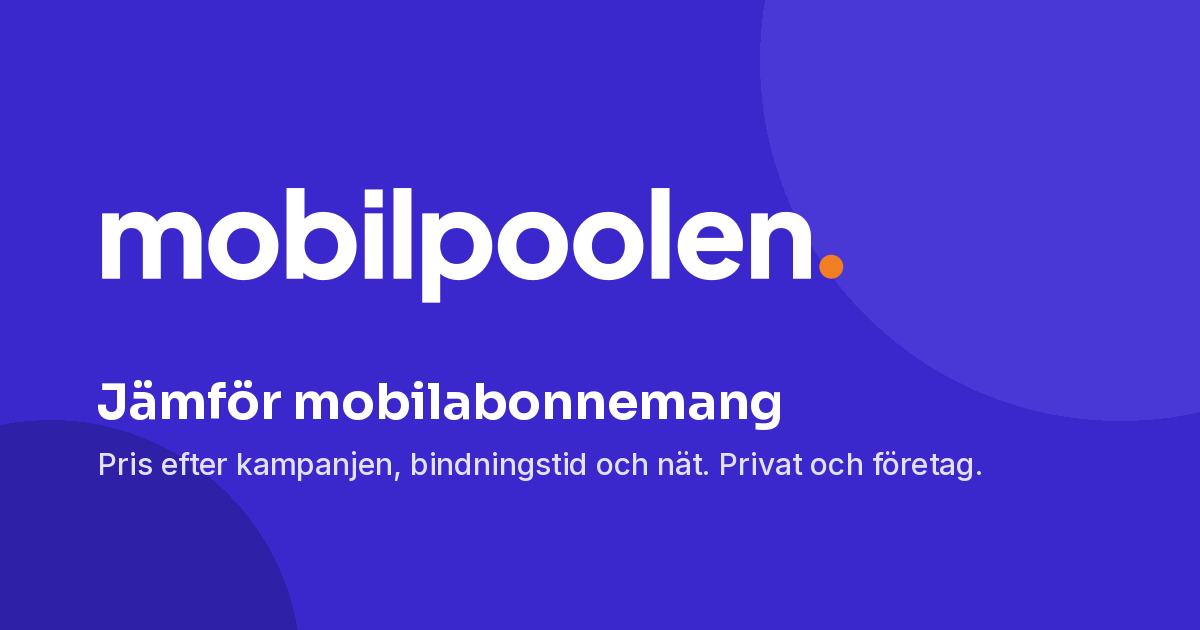
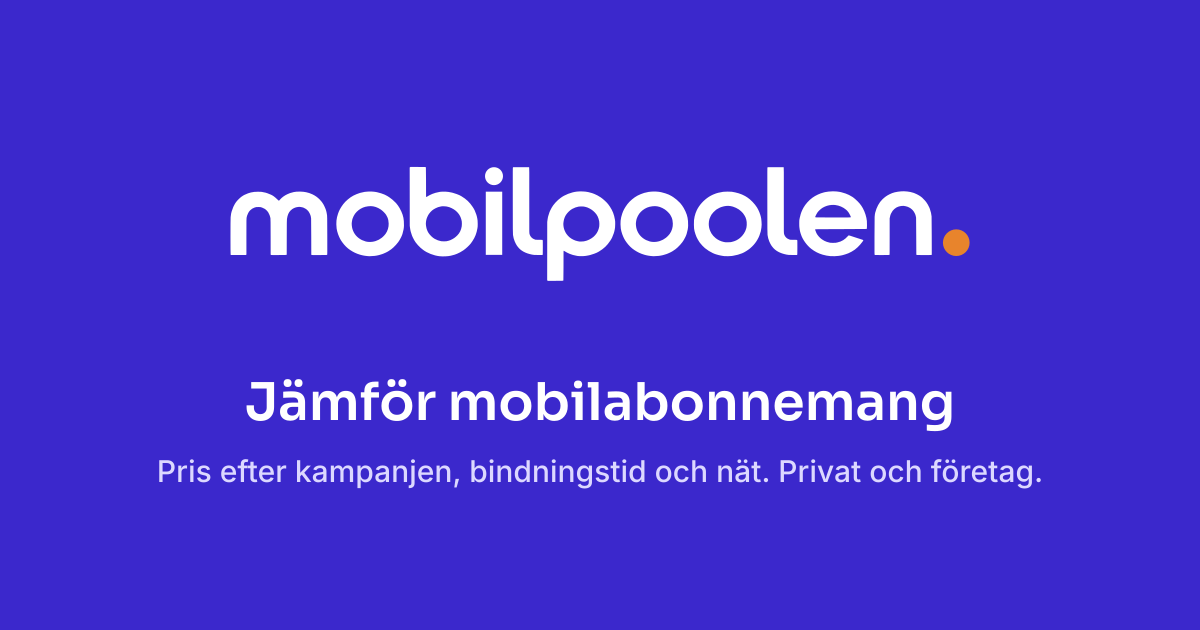
Ordmärke i syskonsajternas stil, nya ikoner och menyn som Elpoolens
Claude-Session: https://claude.ai/code/session_01DKo93vbMJngNmX4rjHpJwu

Changed region(s): [[0.0, 0.6032, 0.8633, 1.0], [0.0617, 0.2714, 0.8325, 0.4825]]

diff --git a/src/components/site-nav.tsx b/src/components/site-nav.tsx
@@ -220,7 +220,7 @@ export function SiteNav() {
 
   return (
     <>
-      <div aria-hidden className="h-12 md:h-[72px]" />
+      <div aria-hidden className="nav-skala h-12 md:h-[72px]" />
       {/* Som på Elpoolen: navbaren har samma höjd och storlek hela tiden, även
           när man scrollar. Bara skuggan kommer till när sidan rört sig. */}
       <header
@@ -228,13 +228,14 @@ export function SiteNav() {
           scrolled ? "shadow-nav" : ""
         }`}
       >
-        <div className="mx-auto max-w-7xl px-4 sm:px-6 lg:px-8 flex items-center justify-between xl:grid xl:grid-cols-[auto_1fr_auto] h-12 md:h-[72px]">
-          <BrandLogo width={170} mobileWidth={140} className="items-center" />
+        <div className="nav-skala mx-auto max-w-7xl px-4 sm:px-6 lg:px-8 flex items-center justify-between h-12 md:h-[72px]">
+          {/* Samma storlek som Elpoolens ordmärke: versalhöjden blir 22,2 px (17,1 px i mobil). */}
+          <BrandLogo width={188} mobileWidth={145} className="items-center" />
 
           <nav
             ref={navRef}
-            className="site-nav-links hidden xl:flex items-center justify-self-center"
-            style={{ gap: 26 }}
+            className="site-nav-links hidden lg:flex lg:flex-1 items-center justify-center"
+            style={{ gap: 28 }}
             aria-label="Huvudmeny"
           >
             {NAV.map((post, i) => {
@@ -317,15 +318,16 @@ export function SiteNav() {
             <Link
               to="/"
               hash="alla"
-              className="inline-flex min-h-11 items-center justify-center whitespace-nowrap rounded-[10px] bg-cta px-4 py-2.5 lg:min-h-0 text-[15px] font-semibold text-cta-foreground shadow-none hover:bg-cta-hover min-[400px]:min-w-[164px] min-[400px]:px-5"
-              style={{ lineHeight: 1.2, boxShadow: "none" }}
+              className="inline-flex items-center justify-center whitespace-nowrap bg-cta hover:bg-cta-hover text-cta-foreground font-semibold rounded-[10px] transition-all duration-200 motion-reduce:transition-none"
+              style={{ padding: "10px 20px", fontSize: 15, lineHeight: 1.2 }}
             >
-              {/* Under 400 px rör loggan och knappen nästan varandra, så knappen blir kortare. */}
-              <span className="min-[400px]:hidden">Jämför →</span>
-              <span className="hidden min-[400px]:inline">Jämför gratis →</span>
+              {/* Samma mått, text och vita textfärg som Elpoolens knapp (Leons beslut 1 nov 2026).
+                  Under 360 px står den korta texten. */}
+              <span className="min-[360px]:hidden">Jämför →</span>
+              <span className="hidden min-[360px]:inline">Jämför gratis →</span>
             </Link>
             <button
-              className="xl:hidden inline-flex items-center justify-center min-h-11 min-w-11 rounded-md hover:bg-muted focus-visible:outline-none focus-visible:ring-2 focus-visible:ring-ring focus-visible:ring-offset-2"
+              className="lg:hidden inline-flex items-center justify-center min-h-11 min-w-11 rounded-md hover:bg-muted focus-visible:outline-none focus-visible:ring-2 focus-visible:ring-ring focus-visible:ring-offset-2"
               aria-label={open ? "Stäng meny" : "Öppna meny"}
               aria-expanded={open}
               aria-controls="mobilmeny"
@@ -340,7 +342,7 @@ export function SiteNav() {
       {open && (
         <div
           id="mobilmeny"
-          className="xl:hidden fixed inset-0 z-[110] bg-surface overflow-y-auto overscroll-contain"
+          className="lg:hidden fixed inset-0 z-[110] bg-surface overflow-y-auto overscroll-contain"
         >
           <div className="flex items-center justify-between h-12 px-4 border-b border-border">
             <BrandLogo width={140} />

diff --git a/src/styles.css b/src/styles.css
@@ -195,13 +195,13 @@
   --aga: #74542d;
   --aga-soft: #f5ebdd;
   --aga-border: #d6b57f;
-  /* Knapp: primär åtgärd, orange som på Elpoolen. Texten är marinblå (samma
-     ton som --dark-section): vit på orangen ger bara 2,70:1, marinblått ger
-     6,11:1 mot #e8842c och 5,16:1 mot hover #d97617. Orange text på ljus
-     botten klarar inte 4,5:1, använd text-primary där. */
+  /* Knapp: primär åtgärd, orange med vit text som på Elpoolen (Leons beslut
+     1 november 2026). Vit mot #e8842c ger 2,70:1, vilket klarar 3:1 för stor
+     text först från 18,66 px fet. Orange text på ljus botten klarar inte
+     4,5:1, använd text-primary där. */
   --cta: #e8842c;
   --cta-hover: #d97617;
-  --cta-foreground: #16133a;
+  --cta-foreground: #ffffff;
   /* Övertoning över fotografier, en mörkare marin än --dark-section. CtaBand
      och statistikheron är kontrastkontrollerade mot just den här tonen, så
      den får inte bytas mot --dark-section utan ny kontroll. */
@@ -345,8 +345,7 @@
 }
 
 /* Huvudknapp som på Elpoolen: Sora 600, minst 56 px hög, radie 14 px.
-   Texten är marinblå (6,11:1 mot orange, 5,16:1 vid hover), inte vit som
-   på Elpoolen, där vitt ger 2,70:1. min-height i stället för height, så att
+   Vit text som på Elpoolen. min-height i stället för height, så att
    en knapptext som bryter rad på 320 px växer i stället för att kapas. */
 @utility btn-cta {
   font-family: var(--font-display);
@@ -383,7 +382,7 @@
     outline: none;
     box-shadow:
       0 0 0 2px #ffffff,
-      0 0 0 4px var(--color-cta-foreground);
+      0 0 0 4px #16133a;
   }
 
   &:disabled {
@@ -738,6 +737,87 @@
 @media (max-width: 767px) {
   .brand-logo-responsive {
     width: var(--brand-logo-mobile-width) !important;
+  }
+
+  /* Menyknappen kompakt i mobil, som på Elpoolen. */
+  header.fixed a.bg-cta {
+    padding: 7px 12px !important;
+    font-size: 13px !important;
+    line-height: 1.2 !important;
+  }
+}
+
+/* Menyn skalas som Elpoolens: ritad för ca 1 440 px och förminskad i steg om 32 px
+   ner till 1 024 px, så att syskonsajternas menyer har samma storlek på alla skärmar.
+   Värdena är desamma som i Elpoolens styles.css. */
+@media (min-width: 1024px) {
+  :root {
+    --hz: 0.717;
+  }
+}
+@media (min-width: 1040px) {
+  :root {
+    --hz: 0.733;
+  }
+}
+@media (min-width: 1072px) {
+  :root {
+    --hz: 0.756;
+  }
+}
+@media (min-width: 1104px) {
+  :root {
+    --hz: 0.778;
+  }
+}
+@media (min-width: 1136px) {
+  :root {
+    --hz: 0.8;
+  }
+}
+@media (min-width: 1168px) {
+  :root {
+    --hz: 0.822;
+  }
+}
+@media (min-width: 1200px) {
+  :root {
+    --hz: 0.844;
+  }
+}
+@media (min-width: 1232px) {
+  :root {
+    --hz: 0.867;
+  }
+}
+@media (min-width: 1264px) {
+  :root {
+    --hz: 0.889;
+  }
+}
+@media (min-width: 1296px) {
+  :root {
+    --hz: 0.911;
+  }
+}
+@media (min-width: 1328px) {
+  :root {
+    --hz: 0.933;
+  }
+}
+@media (min-width: 1360px) {
+  :root {
+    --hz: 0.956;
+  }
+}
+@media (min-width: 1392px) {
+  :root {
+    --hz: 1;
+  }
+}
+@media (min-width: 1024px) {
+  .nav-skala {
+    zoom: var(--hz);
   }
 }
 

diff --git a/src/routes/__root.tsx b/src/routes/__root.tsx
@@ -207,11 +207,12 @@ export const Route = createRootRouteWithContext<{ queryClient: QueryClient }>()(
       ],
       links: [
         { rel: "stylesheet", href: appCss },
-        { rel: "icon", href: "/favicon.ico?v=2", sizes: "16x16 32x32 48x48" },
-        { rel: "icon", href: "/favicon-16.png?v=2", type: "image/png", sizes: "16x16" },
-        { rel: "icon", href: "/favicon-32.png?v=2", type: "image/png", sizes: "32x32" },
-        { rel: "icon", href: "/favicon-48.png?v=2", type: "image/png", sizes: "48x48" },
-        { rel: "apple-touch-icon", href: "/apple-touch-icon.png?v=2", sizes: "180x180" },
+        { rel: "icon", href: "/favicon.ico?v=3", sizes: "16x16 32x32 48x48" },
+        { rel: "icon", href: "/favicon.svg?v=3", type: "image/svg+xml" },
+        { rel: "icon", href: "/favicon-16.png?v=3", type: "image/png", sizes: "16x16" },
+        { rel: "icon", href: "/favicon-32.png?v=3", type: "image/png", sizes: "32x32" },
+        { rel: "icon", href: "/favicon-48.png?v=3", type: "image/png", sizes: "48x48" },
+        { rel: "apple-touch-icon", href: "/apple-touch-icon.png?v=3", sizes: "180x180" },
         { rel: "manifest", href: "/site.webmanifest" },
       ],
     };

diff --git a/src/components/brand-logo.tsx b/src/components/brand-logo.tsx
@@ -35,8 +35,8 @@ export function BrandLogo({
         src={variant === "dark" ? logoWhite : logo}
         alt=""
         width={safeWidth}
-        /* Ordmärkets viewBox är 825 x 158. */
-        height={Math.round((safeWidth * 158) / 825)}
+        /* Ordmärkets viewBox är 1192,2 x 184. */
+        height={Math.round((safeWidth * 184) / 1192.2)}
         className="block h-auto w-full"
       />
     </Link>
